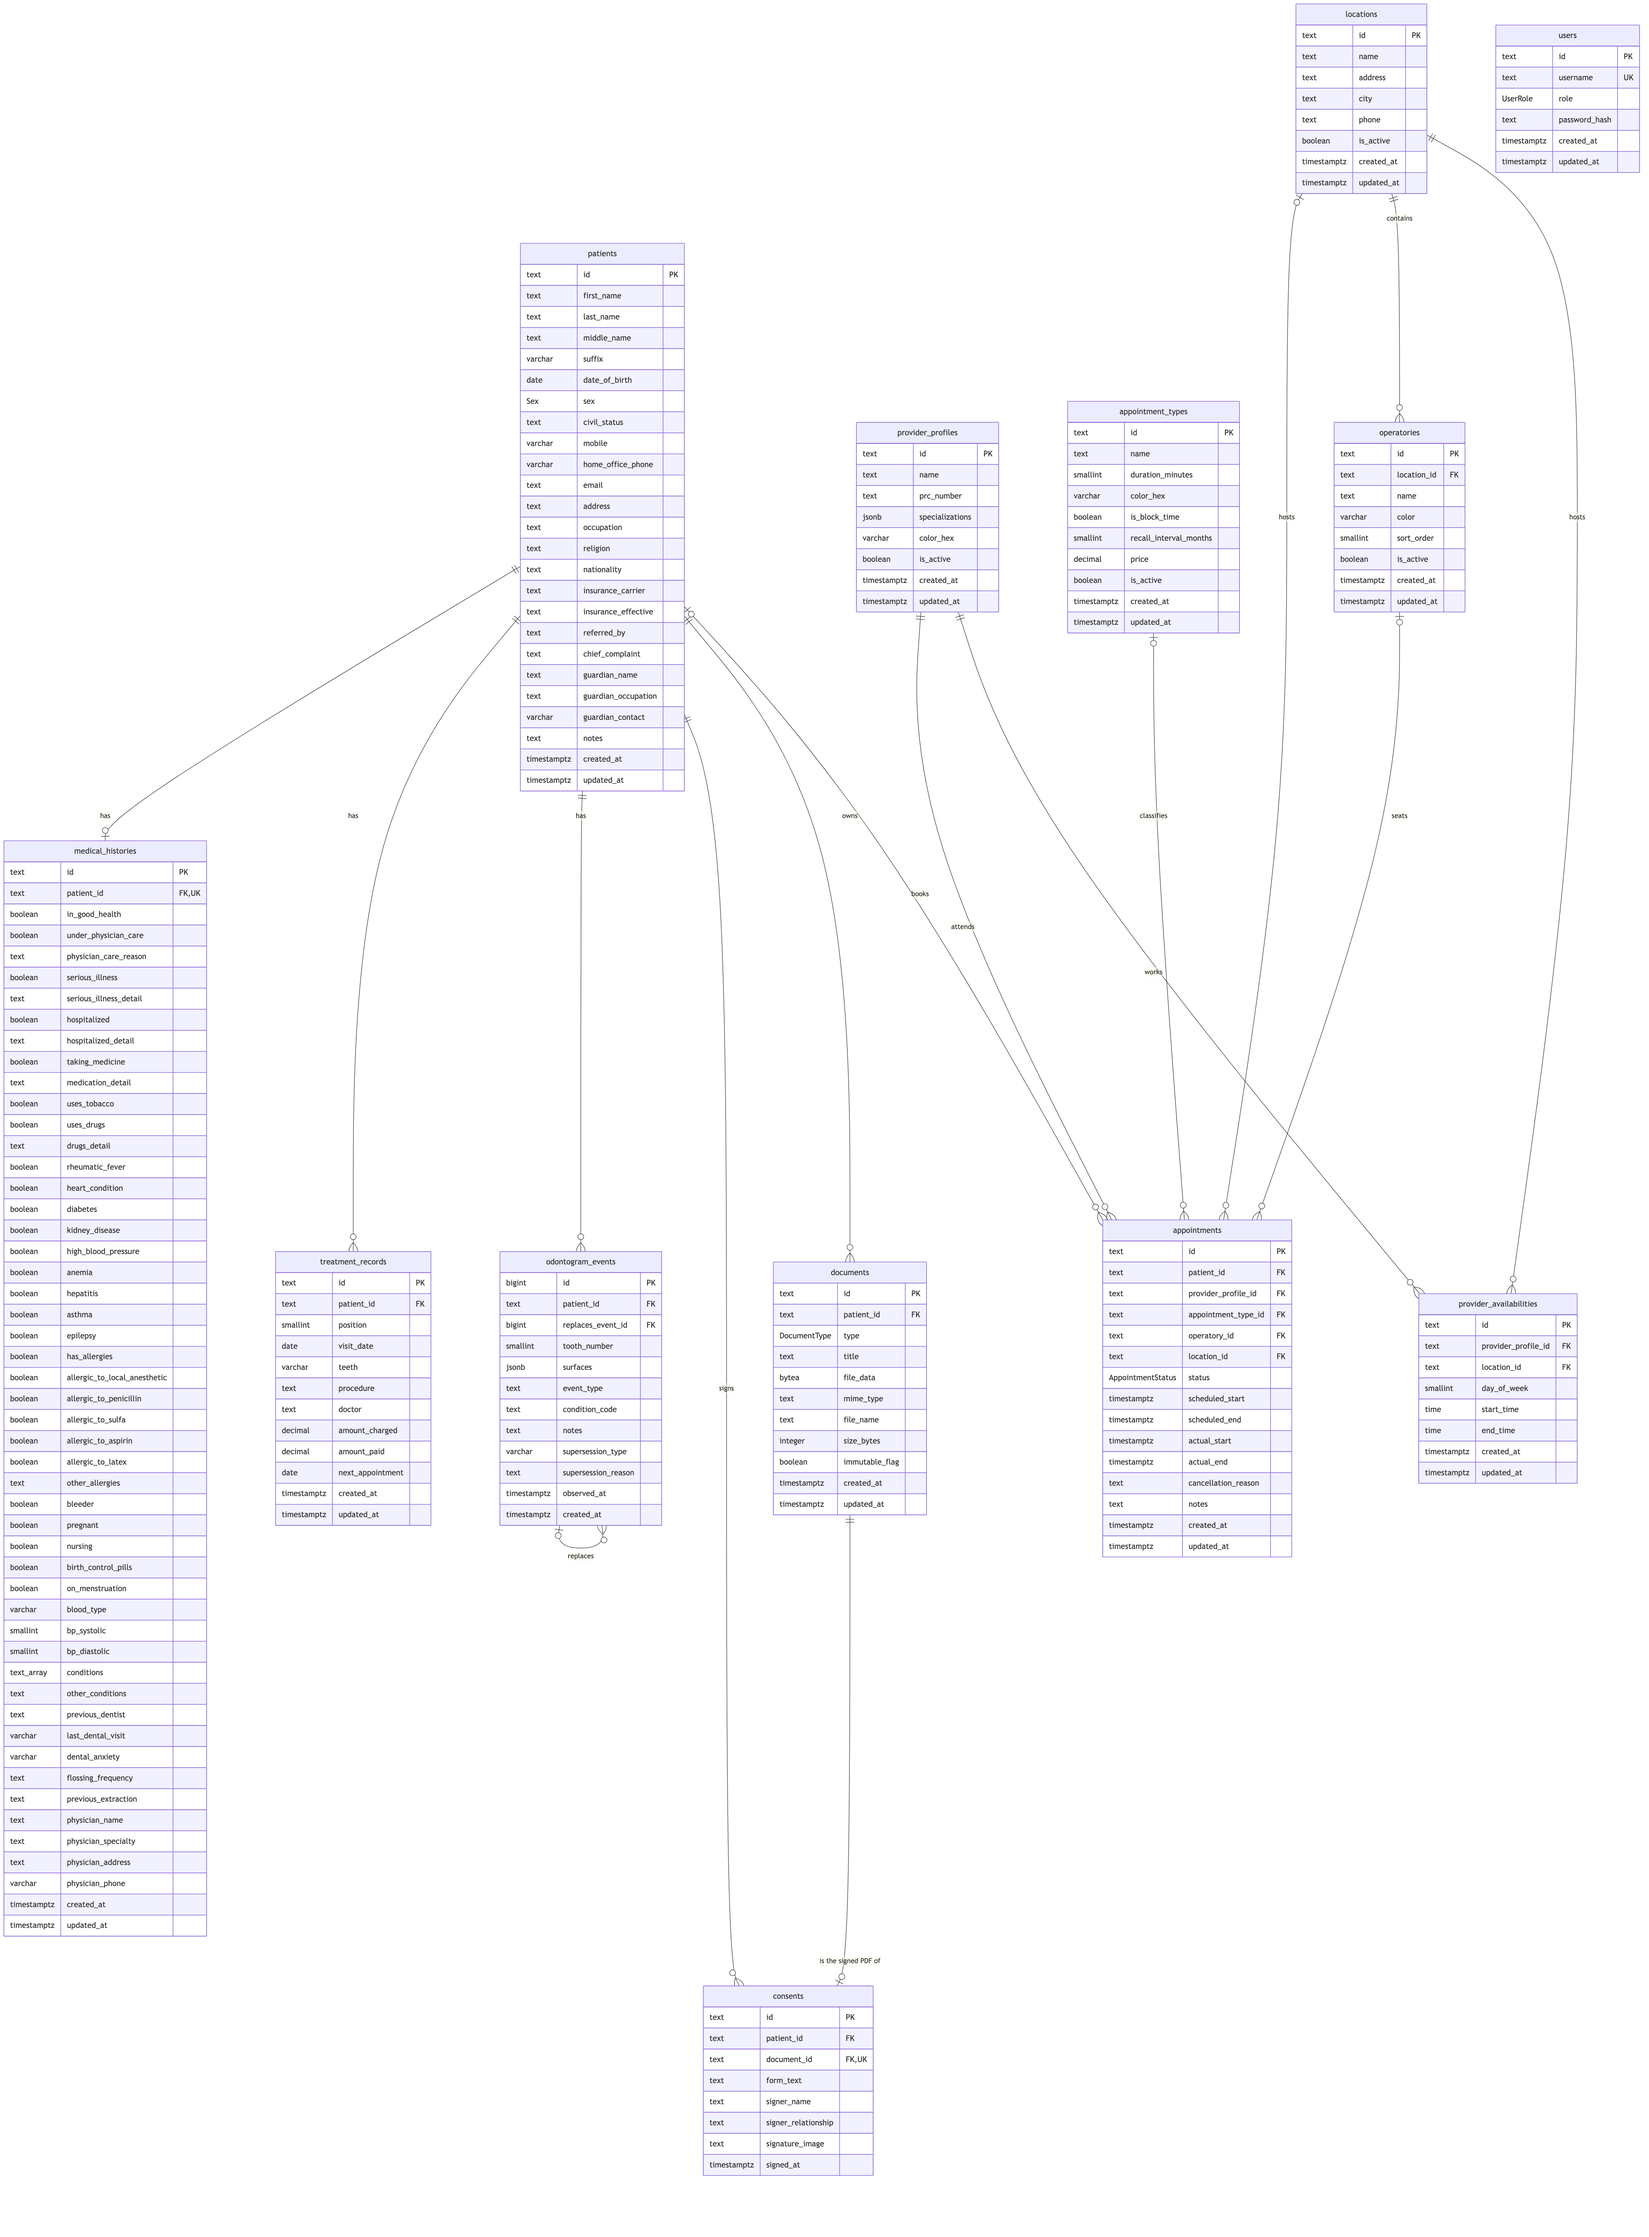
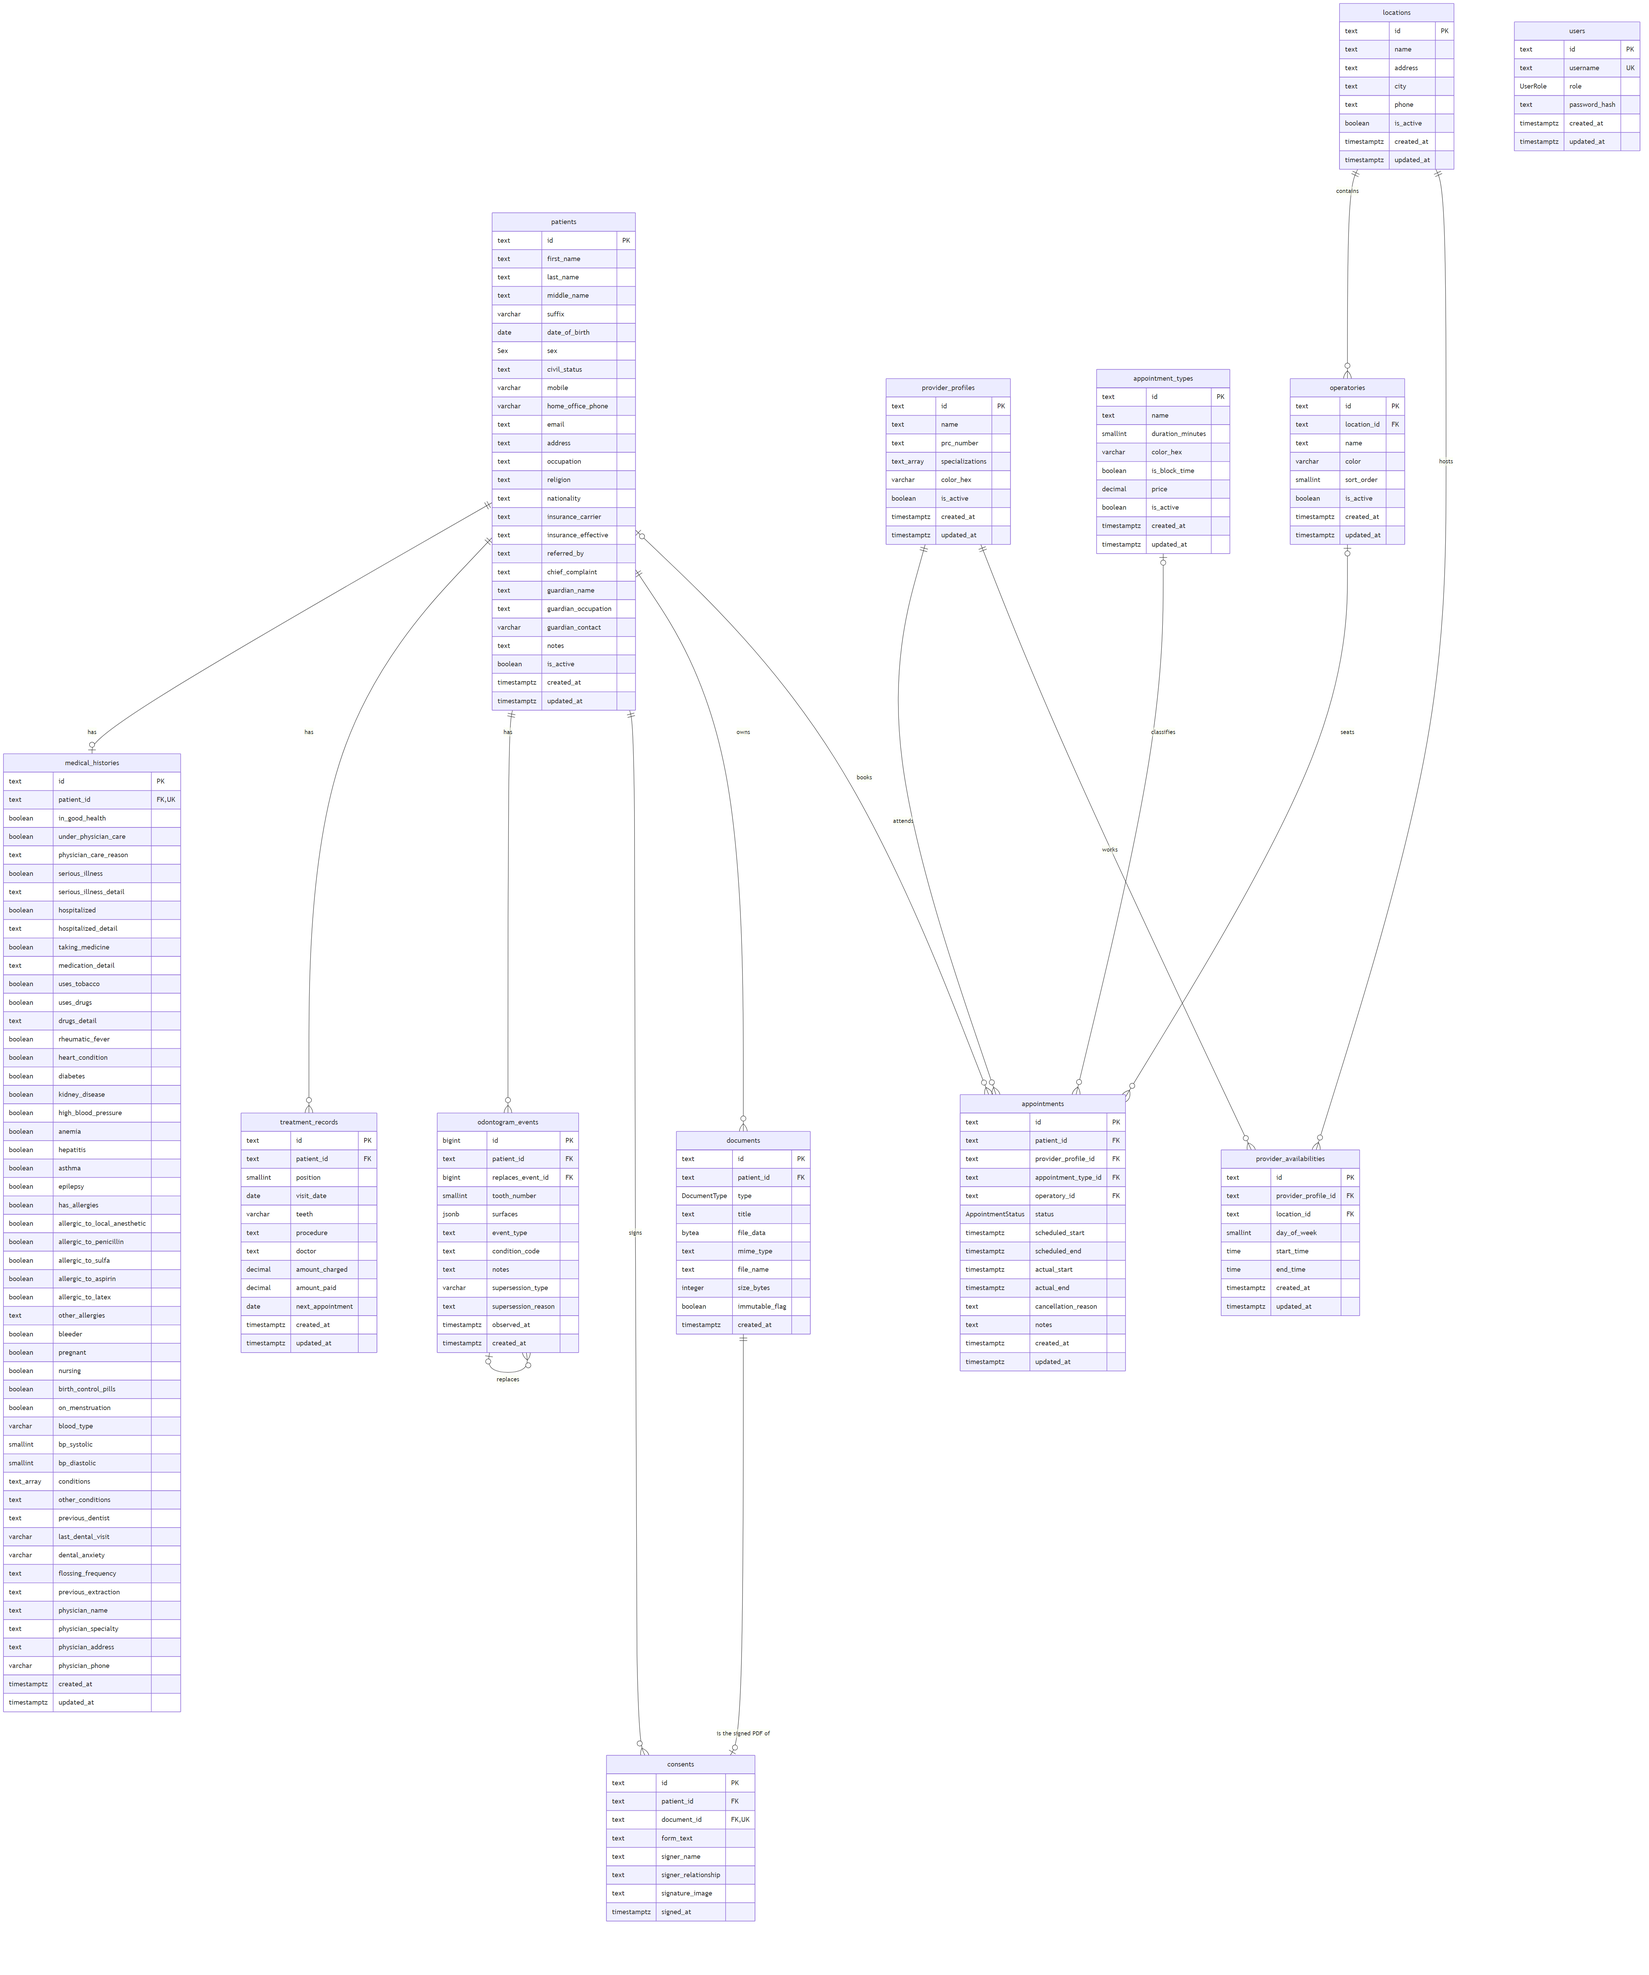
updated docs

diff --git a/docs/database/relational-schema.md b/docs/database/relational-schema.md
@@ -12,7 +12,7 @@ PostgreSQL database `dentaclub`. The schema is defined in [`backend/prisma/schem
 
 ### Patients and clinical records
 
-**patients**(<ins>id</ins>, first_name, last_name, middle_name, suffix, date_of_birth, sex, civil_status, mobile, home_office_phone, email, address, occupation, religion, nationality, insurance_carrier, insurance_effective, referred_by, chief_complaint, guardian_name, guardian_occupation, guardian_contact, notes, created_at, updated_at)
+**patients**(<ins>id</ins>, first_name, last_name, middle_name, suffix, date_of_birth, sex, civil_status, mobile, home_office_phone, email, address, occupation, religion, nationality, insurance_carrier, insurance_effective, referred_by, chief_complaint, guardian_name, guardian_occupation, guardian_contact, notes, is_active, created_at, updated_at)
 
 | Attribute | Type | Notes |
 |---|---|---|
@@ -31,9 +31,10 @@ PostgreSQL database `dentaclub`. The schema is defined in [`backend/prisma/schem
 | guardian_name, guardian_occupation | text? | for minors |
 | guardian_contact | varchar(30)? | |
 | notes | text? | |
+| is_active | boolean | default true; false = removed from the directory (soft delete), restorable by an admin |
 | created_at, updated_at | timestamptz | |
 
-Index: (last_name, first_name), for the A–Z patient directory.
+Index: (last_name, first_name), for the A–Z patient directory. Patients are never deleted: "Delete" sets `is_active` to false, so their chart, consents and appointments stay on file.
 
 ---
 
@@ -96,21 +97,21 @@ Indexes: (patient_id, tooth_number), (patient_id, observed_at). The table is **a
 
 ---
 
-**documents**(<ins>id</ins>, *patient_id* → patients, type, title, file_data, mime_type, file_name, size_bytes, immutable_flag, created_at, updated_at)
+**documents**(<ins>id</ins>, *patient_id* → patients, type, title, file_data, mime_type, file_name, size_bytes, immutable_flag, created_at)
 
 | Attribute | Type | Notes |
 |---|---|---|
 | id | text | PK |
 | patient_id | text | FK → patients.id |
-| type | DocumentType | enum: id_scan, referral, lab_result, consent, treatment_plan_signature, signed_consent, other |
+| type | DocumentType | enum: signed_consent, other |
 | title | text | |
 | file_data | bytea? | the file itself (e.g. the signed consent PDF) |
 | mime_type, file_name | text? | |
 | size_bytes | integer? | |
 | immutable_flag | boolean | default false; true for signed consents |
-| created_at, updated_at | timestamptz | |
+| created_at | timestamptz | |
 
-Index: (patient_id).
+Index: (patient_id). Documents are written once and never edited, so there is no `updated_at`. The trigger `documents_immutable` refuses any UPDATE or DELETE of a row whose `immutable_flag` is true.
 
 ---
 
@@ -166,7 +167,7 @@ Index: (location_id).
 | id | text | PK |
 | name | text | the dentist's name |
 | prc_number | text? | PRC licence number |
-| specializations | jsonb? | e.g. `["General Dentistry"]` |
+| specializations | text[] | e.g. `{"General Dentistry"}`; default empty |
 | color_hex | varchar(7) | default `#3B82F6` |
 | is_active | boolean | default true |
 | created_at, updated_at | timestamptz | |
@@ -188,7 +189,7 @@ Index: (provider_profile_id, day_of_week). One row is one weekly working window.
 
 ---
 
-**appointment_types**(<ins>id</ins>, name, duration_minutes, color_hex, is_block_time, recall_interval_months, price, is_active, created_at, updated_at)
+**appointment_types**(<ins>id</ins>, name, duration_minutes, color_hex, is_block_time, price, is_active, created_at, updated_at)
 
 | Attribute | Type | Notes |
 |---|---|---|
@@ -197,23 +198,21 @@ Index: (provider_profile_id, day_of_week). One row is one weekly working window.
 | duration_minutes | smallint | default 30 |
 | color_hex | varchar(7) | default `#6B7280` |
 | is_block_time | boolean | default false; true for lunch or meetings (no patient) |
-| recall_interval_months | smallint? | |
 | price | decimal(10,2)? | pesos; NULL = no set price |
 | is_active | boolean | default true |
 | created_at, updated_at | timestamptz | |
 
 ---
 
-**appointments**(<ins>id</ins>, *patient_id* → patients, *provider_profile_id* → provider_profiles, *appointment_type_id* → appointment_types, *operatory_id* → operatories, *location_id* → locations, status, scheduled_start, scheduled_end, actual_start, actual_end, cancellation_reason, notes, created_at, updated_at)
+**appointments**(<ins>id</ins>, *patient_id* → patients, *provider_profile_id* → provider_profiles, *appointment_type_id* → appointment_types, *operatory_id* → operatories, status, scheduled_start, scheduled_end, actual_start, actual_end, cancellation_reason, notes, created_at, updated_at)
 
 | Attribute | Type | Notes |
 |---|---|---|
 | id | text | PK |
-| patient_id | text? | FK → patients.id; NULL for block time |
+| patient_id | text? | FK → patients.id; NULL only for block time |
 | provider_profile_id | text | FK → provider_profiles.id |
 | appointment_type_id | text? | FK → appointment_types.id |
-| operatory_id | text? | FK → operatories.id |
-| location_id | text? | FK → locations.id |
+| operatory_id | text? | FK → operatories.id; the clinic location is read through the chair |
 | status | AppointmentStatus | enum, default `scheduled` (see below) |
 | scheduled_start, scheduled_end | timestamptz | |
 | actual_start | timestamptz? | set when the patient is seated |
@@ -246,19 +245,18 @@ Indexes: (scheduled_start), (operatory_id, scheduled_start), (provider_profile_i
 | treatment_records.patient_id | patients.id | CASCADE | patient 1 : 0..* rows |
 | odontogram_events.patient_id | patients.id | CASCADE | patient 1 : 0..* events |
 | odontogram_events.replaces_event_id | odontogram_events.id | RESTRICT | event 0..1 : 0..* corrections |
-| documents.patient_id | patients.id | CASCADE | patient 1 : 0..* documents |
-| consents.patient_id | patients.id | CASCADE | patient 1 : 0..* consents |
+| documents.patient_id | patients.id | RESTRICT | patient 1 : 0..* documents |
+| consents.patient_id | patients.id | RESTRICT | patient 1 : 0..* consents |
 | consents.document_id | documents.id | NO ACTION | document 1 : 0..1 consent |
-| appointments.patient_id | patients.id | SET NULL | patient 0..1 : 0..* appointments |
-| appointments.provider_profile_id | provider_profiles.id | CASCADE | dentist 1 : 0..* appointments |
+| appointments.patient_id | patients.id | RESTRICT | patient 0..1 : 0..* appointments |
+| appointments.provider_profile_id | provider_profiles.id | RESTRICT | dentist 1 : 0..* appointments |
 | appointments.appointment_type_id | appointment_types.id | SET NULL | type 0..1 : 0..* appointments |
 | appointments.operatory_id | operatories.id | SET NULL | chair 0..1 : 0..* appointments |
-| appointments.location_id | locations.id | SET NULL | location 0..1 : 0..* appointments |
 | operatories.location_id | locations.id | CASCADE | location 1 : 0..* chairs |
 | provider_availabilities.provider_profile_id | provider_profiles.id | CASCADE | dentist 1 : 0..* windows |
 | provider_availabilities.location_id | locations.id | CASCADE | location 1 : 0..* windows |
 
-All foreign keys are `ON UPDATE CASCADE`. Deleting a patient removes their clinical records, but keeps their appointments with the patient set to NULL, so the clinic's schedule history stays intact.
+All foreign keys are `ON UPDATE CASCADE`. Patients are deactivated (`is_active = false`) rather than deleted, and RESTRICT means the database itself refuses to delete a patient who has appointments, consents or documents, or a dentist who has appointments. CASCADE is kept only for rows that belong entirely to their parent: a patient's medical history, treatment sheet and chart; a location's chairs; a dentist's weekly windows.
 
 ## CHECK constraints
 
@@ -273,13 +271,19 @@ All foreign keys are `ON UPDATE CASCADE`. Deleting a patient removes their clini
 | odontogram_events | odontogram_retraction_states_reason | an entered-in-error event has a supersession_reason |
 | odontogram_events | odontogram_no_self_supersession | an event cannot replace itself |
 
+## Triggers
+
+| Table | Trigger | Rule |
+|---|---|---|
+| documents | documents_immutable | BEFORE UPDATE OR DELETE: refuses the change when `immutable_flag` is true, so a signed consent PDF can never be altered or removed |
+
 ## Enumerated types
 
 | Type | Values |
 |---|---|
 | Sex | male, female, other |
 | AppointmentStatus | scheduled, confirmed, arrived, in_chair, completed, cancelled, no_show |
-| DocumentType | id_scan, referral, lab_result, consent, treatment_plan_signature, signed_consent, other |
+| DocumentType | signed_consent, other |
 | UserRole | admin, staff |
 
 Allowed status changes, enforced by the API: scheduled → confirmed → arrived → in_chair → completed. `cancelled` and `no_show` are final. Confirming an appointment checks that the dentist and the chair are free at that time.
@@ -287,6 +291,6 @@ Allowed status changes, enforced by the API: scheduled → confirmed → arrived
 ## Deliberate design choices
 
 - **Copied values (snapshots).** `consents.form_text` stores the consent wording as it was signed, and `treatment_records.amount_charged` stores the price at the time of the visit. Both are copied on purpose: editing the consent form or changing a service price must never change what a patient already signed or was charged.
-- **History is kept, not overwritten.** Dental chart findings are append-only (`odontogram_events`), consents gain a new row for each signing, and locations, chairs, dentists and appointment types are deactivated (`is_active`) rather than deleted.
+- **History is kept, not overwritten.** Dental chart findings are append-only (`odontogram_events`), consents gain a new row for each signing, and patients, locations, chairs, dentists and appointment types are deactivated (`is_active`) rather than deleted.
 - **One-to-one split.** The medical history is a separate table from `patients` (1 : 0..1, enforced by the UNIQUE `patient_id`), because it is a separate form, filled in and saved separately, and empty for some patients.
-- **Derived data is not stored.** A patient's age and the treatment sheet's running balance are computed when read.
+- **Derived data is not stored.** A patient's age and the treatment sheet's running balance are computed when read, and an appointment's location is read through its chair (`operatories.location_id`) rather than copied onto the appointment.

diff --git a/docs/database/ERD.md b/docs/database/ERD.md
@@ -14,7 +14,7 @@ The full relational schema, with types, keys and constraints, is in [relational-
 | document is the signed PDF of a consent | 1 : 0..1 |
 | patient books appointments (none for block time) | 0..1 : 0..* |
 | dentist attends appointments | 1 : 0..* |
-| appointment type, chair or location of an appointment | 0..1 : 0..* |
+| appointment type or chair of an appointment (its location is the chair's) | 0..1 : 0..* |
 | location contains chairs | 1 : 0..* |
 | dentist works weekly availability windows at a location | 1 : 0..* each |
 | users | stands alone (sign-in and roles: admin or staff) |
@@ -22,5 +22,5 @@ The full relational schema, with types, keys and constraints, is in [relational-
 The diagram's source is [erd.mmd](erd.mmd). To regenerate the image after a schema change:
 
 ```bash
-npx -y @mermaid-js/mermaid-cli -i docs/database/erd.mmd -o docs/database/erd.png -b white -w 2400 -s 2
+npx -y @mermaid-js/mermaid-cli@11.4.2 -i docs/database/erd.mmd -o docs/database/erd.png -b white -w 2400 -s 2
 ```
